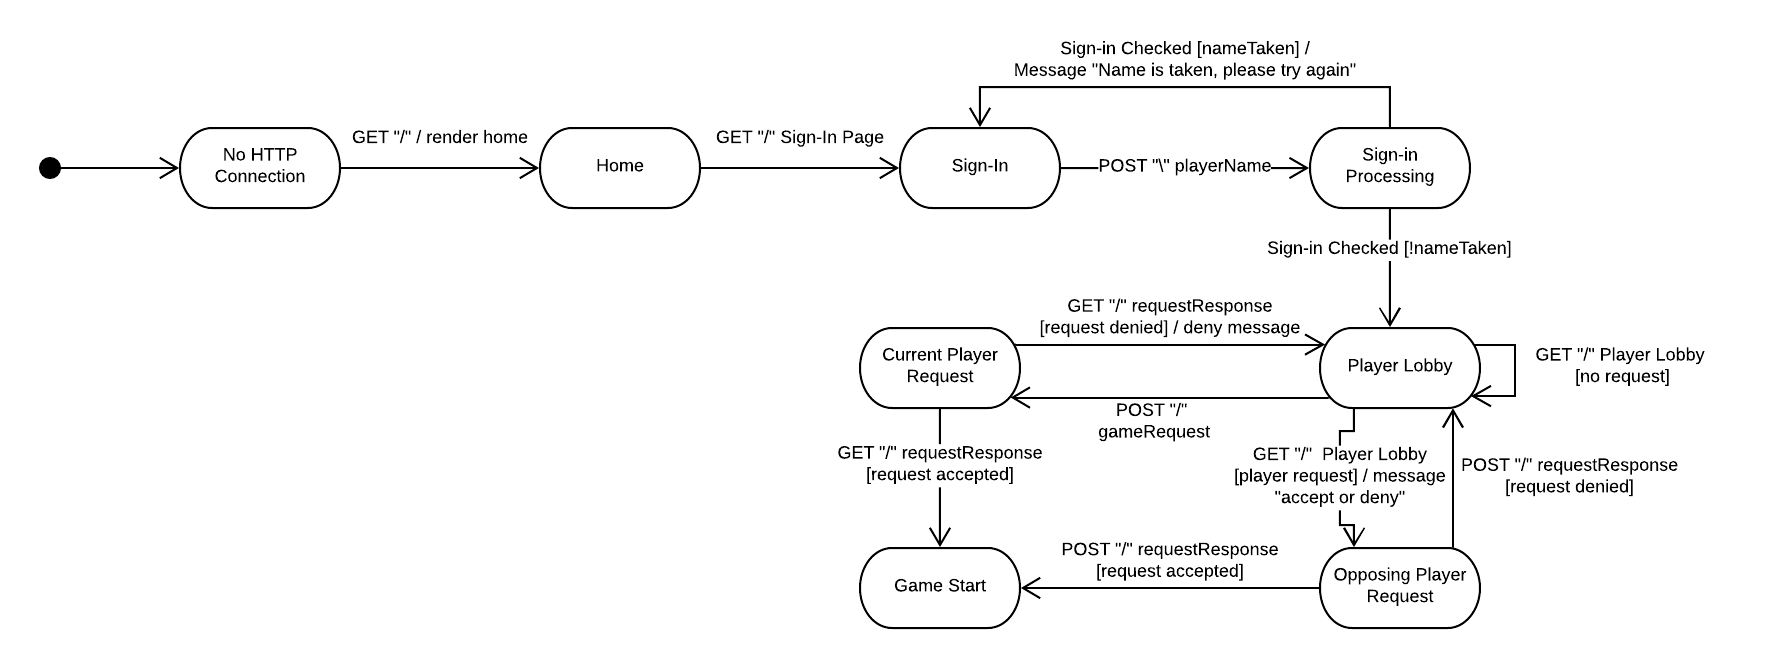
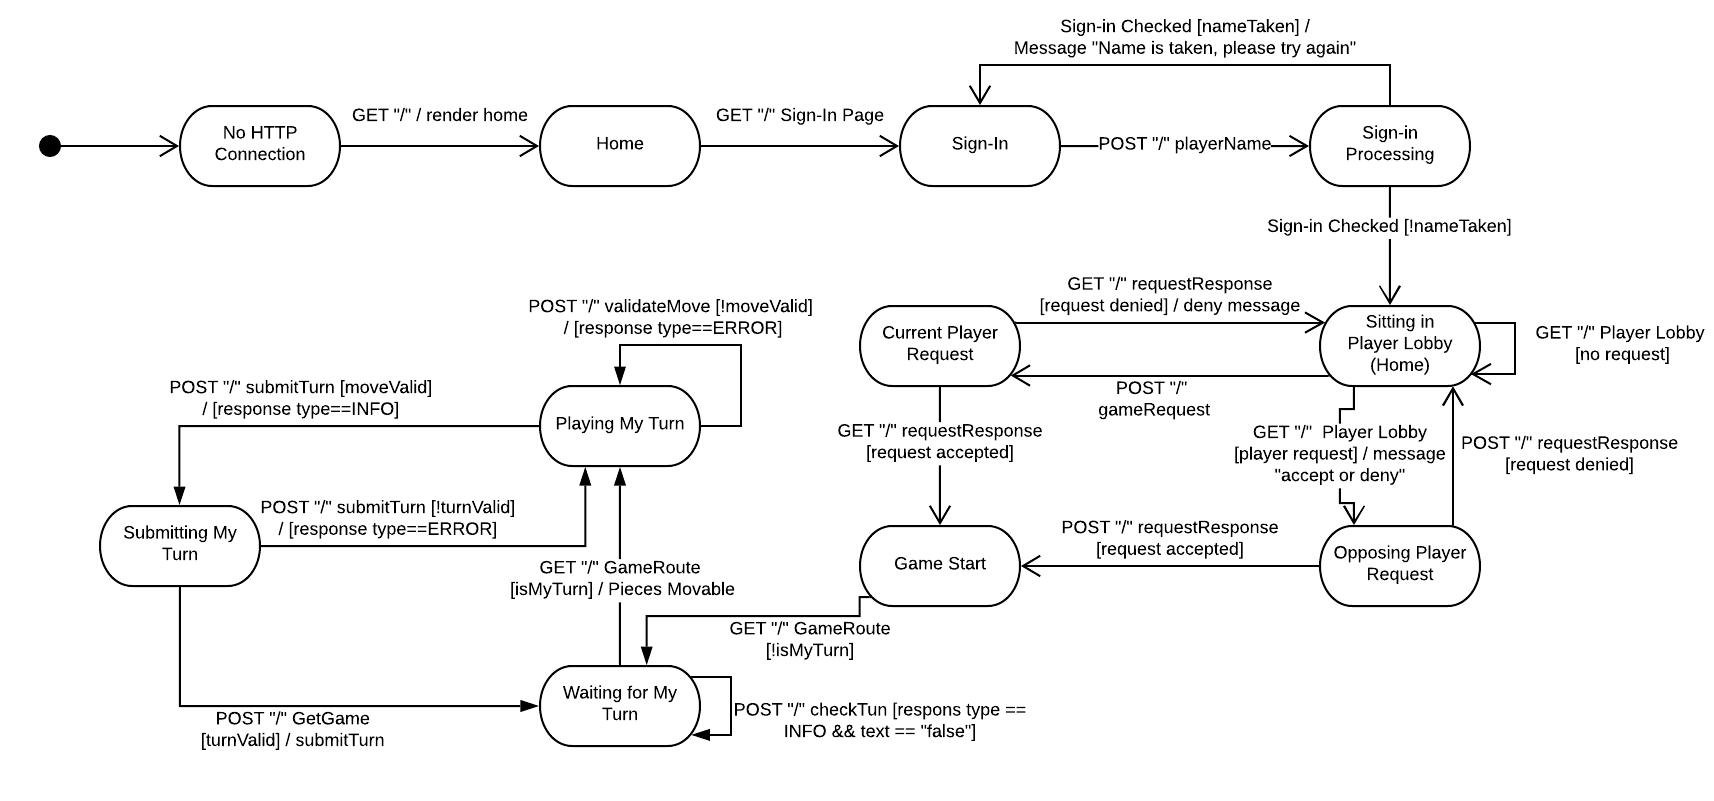
Updated the design doc with the new state chart and domain model.

diff --git a/docs/DesignDoc.md b/docs/DesignDoc.md
@@ -49,7 +49,7 @@ The MVP is producing an application that implements the American rules of
 
 ### MVP Features
 
-Sign-in, Start game, Make a Move (Big stories of King and Jump as well), End the
+Sign-in, Start game, Make a Move (Big stories of Move and Jump as well), End the
  Game, and Sign-out. 
 
 ### Roadmap of Enhancements
@@ -61,18 +61,24 @@ Sign-in, Make a Move (jump, then king), Sign-out and End the Game.
 
 This section describes the application domain.
 
-![The WebCheckers Domain Model](swen-fwiends-domain-model.png)
+![The WebCheckers Domain Model](domain-model-fwiends.png)
 
 > _Provide a high-level overview of the domain for this application. You
 > can discuss the more important domain entities and their relationship
 > to each other._
 
 The domain of this application is a basic overview of the checkers game. A
- checkers game is played on a board comprised of squares. Each square is
-  either white or red. The checkers are placed on the board, either white or
-   red, and either "kinged" or regular. The pieces move around the board by
-    either going to a valid space or jumping an opponent's piece as many
-     times as possible. A player plays the game of checkers.
+ checkers game is played on a board comprised of row. Each row is comprised
+  of spaces. Each space is either white or black. Each space can be occupied
+   by a piece, the piece can be kinged (allowing it to move differently) or a
+    single piece. (It also can be red or black depending on which player owns
+     it)
+     
+The board is viewed from a player via a BoardView. The player does move
+ pieces though from spaces. Each space has a position that, when a move is
+  made, determines where a piece is moved to. The move holds two positions
+   and changes the location of a piece from one to another if possible. It is
+    either moved via a jump or a regular move.  
 
 
 ## Architecture and Design
@@ -101,12 +107,39 @@ Details of the components within these tiers are supplied below.
 This section describes the web interface flow; this is how the user views and interacts
 with the WebCheckers application.
 
-![[The WebCheckers Web Interface Statechart]](web-checkers-statechart.png)
+![Webcheckers Statechart](web-checkers-statechart.png)
+
+The statechart above describes how the game is processed. There are two minor
+ state charts that are included below that represent states that were
+  provided via the initial architecture, and not something produced by this
+   group.
 
 The User interface relies on 3 main pages. The Home page, which updates based
  on a player actively being signed in or not, the sign-in page, and the game
   page. The home page displays a sign-in prompt if the player is not
-   currently stored in the http-session and the server understands that.
+   currently stored in the http-session. From there the player can login by
+    submitting a post request to sign-in. This is processed and determines if
+     the player can be added to the lobby.
+
+Once in the lobby they can request to start a game with other players. They
+ either receive or send a request. Depending on how the players respond it
+  either starts a game or resets the home screen where the player is simply
+   sitting in the lobby.
+   
+Then the game starts, during the start of the game there are 3 main states
+. Since these weren't produced by the group below is each provided statechart.
+
+![Playing Turn Chart](playing-turn.png)
+
+There are states located inside the .ftl and javascript files
+ for the client. When it's a player's turn they enter an empty state. They
+  make moves and submit it for move validation. From their they can either
+   submit to confirm that their turn was valid or go back to a previous move.
+   
+![Waiting Turn Chart](waiting-for-turn.png)
+
+When waiting for a turn the main thing that happens is a `POST /checkTurn
+` submitted to the server to determine the turn status has been updated.
 
 ### UI Tier
 
